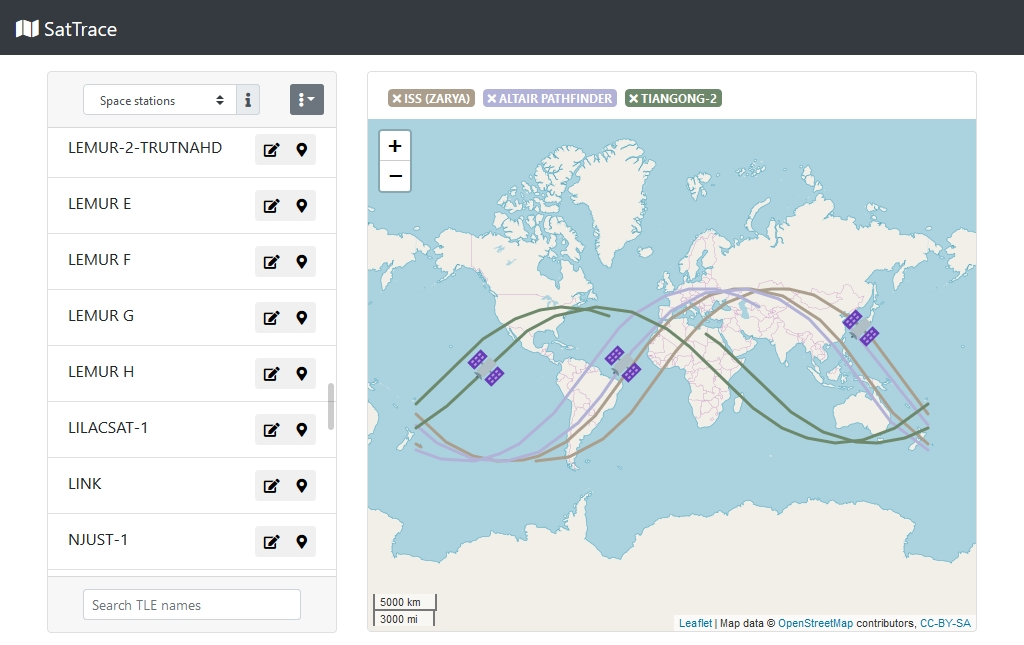
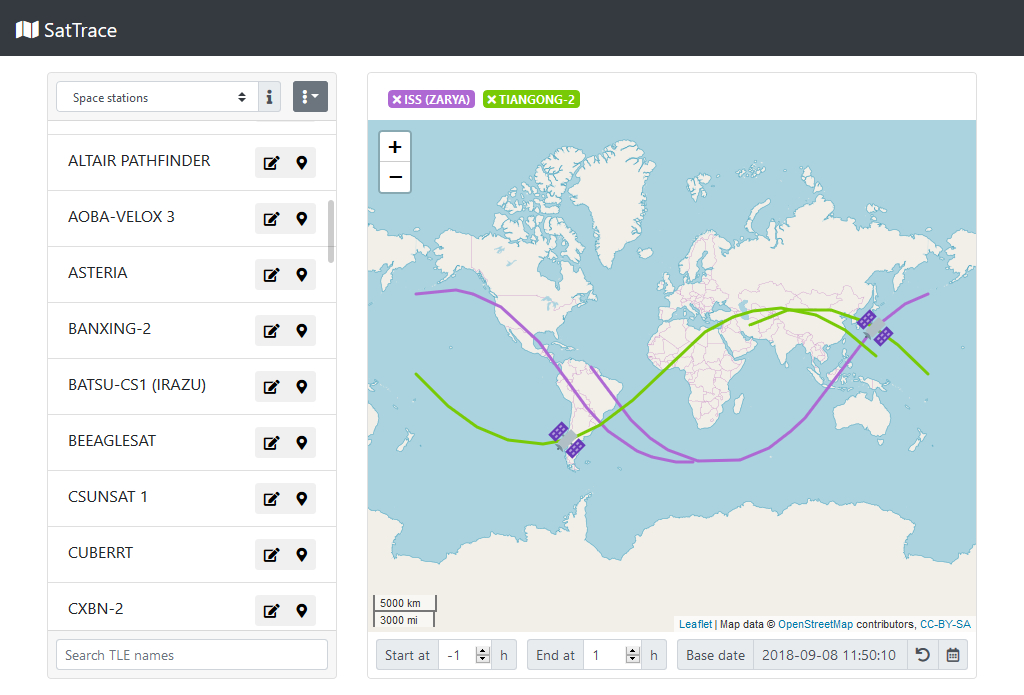
Updated README, UI, removed test code

diff --git a/src/app/tle-list/tle-list.component.html b/src/app/tle-list/tle-list.component.html
@@ -1,41 +1,39 @@
 <!-- main list -->
 <div class="card mt-4 tle-list-panel">
-  <div class="card-header">
+  <div class="card-header p-2">
     <form>
-      <div class="col-12">
-        <div class="row">
-          <div class="col-10 input-group-sm input-group">
-            <select class="custom-select custom-select-sm" name="category" [(ngModel)]="category" (change)="loadCategoryData(category)">
-              <option [ngValue]="searchResults" *ngIf="searchResults">{{searchResults.name}}</option>
-              <option [ngValue]="noCategory">No category</option>
-              <option *ngFor="let item of categoryList" [ngValue]="item">{{item.name}}</option>
-            </select>
-            <div id="catInfo" class="input-group-append" data-container="body" data-toggle="tooltip" data-placement="bottom">
-              <div class="input-group-text"><i class="fas fa-info"></i></div>
-            </div>
+      <div class="form-row">
+        <div class="col-10 input-group-sm input-group">
+          <select class="custom-select custom-select-sm" name="category" [(ngModel)]="category" (change)="loadCategoryData(category)">
+            <option [ngValue]="searchResults" *ngIf="searchResults">{{searchResults.name}}</option>
+            <option [ngValue]="noCategory">No category</option>
+            <option *ngFor="let item of categoryList" [ngValue]="item">{{item.name}}</option>
+          </select>
+          <div id="catInfo" class="input-group-append" data-container="body" data-toggle="tooltip" data-placement="bottom">
+            <label class="input-group-text"><i class="fas fa-info"></i></label>
           </div>
-          <div class="col-2">
-            <div class="dropdown">
-              <button class="btn btn-secondary btn-sm dropdown-toggle" type="button" data-toggle="dropdown"
-                aria-haspopup="true" aria-expanded="false" [disabled]="category.id === 0">
-                <i class="fas fa-ellipsis-v"></i>
-              </button>
-              <div class="dropdown-menu" style="z-index: 1001;">
-                <a href="#" class="dropdown-item" data-toggle="modal" data-target="#categoryEditModal" data-backdrop="static"
-                  (click)="newCategory()">
-                  New category</a>
-                <a href="#" class="dropdown-item" data-toggle="modal" data-target="#categoryEditModal" data-backdrop="static"
-                  [hidden]="category.id === 1">
-                  Edit category</a>
-                <div class="dropdown-divider"></div>
-                <a href="#" class="dropdown-item" data-toggle="modal" data-target="#importModal" data-backdrop="static">
-                  Import into category</a>
-                <a [href]="'tle/export/category/' + category.id" class="dropdown-item">Export category</a>
-                <div class="dropdown-divider"></div>
-                <a href="#" class="dropdown-item" data-toggle="modal" data-target="#tleEditModal" data-backdrop="static"
-                  (click)="newTle()">
-                  New TLE data</a>
-              </div>
+        </div>
+        <div class="col-2">
+          <div class="dropdown float-right">
+            <button class="btn btn-secondary btn-sm dropdown-toggle" type="button" data-toggle="dropdown" aria-haspopup="true"
+              aria-expanded="false" [disabled]="category.id === 0">
+              <i class="fas fa-ellipsis-v"></i>
+            </button>
+            <div class="dropdown-menu" style="z-index: 1001;">
+              <a href="#" class="dropdown-item" data-toggle="modal" data-target="#categoryEditModal" data-backdrop="static"
+                (click)="newCategory()">
+                New category</a>
+              <a href="#" class="dropdown-item" data-toggle="modal" data-target="#categoryEditModal" data-backdrop="static"
+                [hidden]="category.id === 1">
+                Edit category</a>
+              <div class="dropdown-divider"></div>
+              <a href="#" class="dropdown-item" data-toggle="modal" data-target="#importModal" data-backdrop="static">
+                Import into category</a>
+              <a [href]="'tle/export/category/' + category.id" class="dropdown-item">Export category</a>
+              <div class="dropdown-divider"></div>
+              <a href="#" class="dropdown-item" data-toggle="modal" data-target="#tleEditModal" data-backdrop="static"
+                (click)="newTle()">
+                New TLE data</a>
             </div>
           </div>
         </div>
@@ -55,11 +53,9 @@
       </div>
     </li>
   </ul>
-  <div class="card-footer text-muted">
+  <div class="card-footer text-muted p-2">
     <form #searchForm="ngForm" (ngSubmit)="execSearch(search.value)">
-      <div class="col-12">
-        <input type="text" maxlength="24" placeholder="Search TLE names" class="form-control form-control-sm" #search>
-      </div>
+      <input type="text" maxlength="24" placeholder="Search TLE names" class="form-control form-control-sm" #search>
     </form>
   </div>
 </div>

diff --git a/src/app/satellite-map/satellite-map.component.ts b/src/app/satellite-map/satellite-map.component.ts
@@ -64,15 +64,6 @@ export class SatelliteMapComponent implements OnInit {
     // listeners
     this.tleTrackService.toggleTle.subscribe((tle) => this.toggleMapData(tle));
     this.tleTrackService.updatedTle.subscribe((tle) => this.updateSatelliteTle(tle));
-
-    // TEST
-    this.toggleTle(
-      new TLE(
-        1,
-        'ISS (ZARYA)',
-        '1 25544U 98067A   18251.24259628  .00003015  00000-0  53336-4 0  9998',
-        '2 25544  51.6418 324.8013 0005029 133.9199 326.5031 15.53826959131434',
-        3));
   }
 
   selectedTle(): TLE[] {

diff --git a/src/app/satellite-map/satellite-map.component.html b/src/app/satellite-map/satellite-map.component.html
@@ -9,7 +9,7 @@
       </ul>
     </li>
     <li id="map" class="list-group-item border-0" style="z-index: 1;"></li>
-    <li class="list-group-item border-0">
+    <li class="list-group-item border-0 p-2">
       <form class="form">
         <div class="form-row">
           <div class="input-group input-group-sm col-md-3">

diff --git a/src/app/tle-list/tle-list.component.css b/src/app/tle-list/tle-list.component.css
@@ -3,7 +3,7 @@
 }
 
 .tle-list-panel {
-    max-height: 562px;
+    max-height: 607px;
 }
 
 .tle-list-scroll {    

diff --git a/README.md b/README.md
@@ -5,10 +5,6 @@ This is a simple satellite tracker using Two-Line Element Sets (TLE), data can b
 ![SatTrace](screenshots/main.jpg)
 
 ### Instalation  
-Clone the repository then install [Node.js](https://nodejs.org/) and [PostgreSQL](https://www.postgresql.org/).  
-After that, modify the file [database/_config.json](database/_config.json) with your connection information and then rename it to `config.json` and run the database creation script on [database.sql](database.sql) (psql -f database.sql).  
-Then finally, run `npm install` one time to download all dependencies, and `npm start` to run the server.
-
-### In progress features  
-* Manual date input
-* Change the start and finish time for the tracks
+Clone the repository, then install [Node.js](https://nodejs.org/) and [PostgreSQL](https://www.postgresql.org/).  
+After that, run the database creation script on [database.sql](database.sql) (psql -f database.sql), then modify the file [database/_config.json](database/_config.json) with your connection information and rename it to `config.json`.  
+Then finally, run `npm install` one time to download all dependencies, and `npm start` when you want to run the server.
